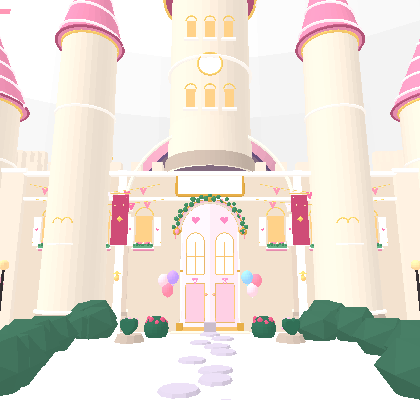
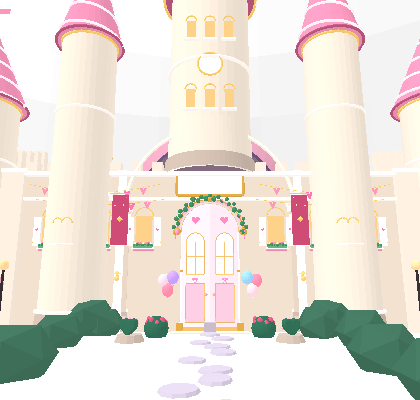
keep the garden's castle identical while the roof closes
The previous commit closed the hole from the inside, but the two halves of the
keep did not add up to the drum that was there before: the lower half kept the
drum's taper and the upper half was a straight cylinder, so the top of the keep
was 2 cm narrow all the way round -- enough to move a ray by up to 10 m where
the silhouette crosses a tower behind it.

Both pieces now take the radius the single drum had at their own height, from
one `taper(y)`, so together they are the same solid to the millimetre. Checked
mesh by mesh against the old code: comparing every mesh in the scene above
4.5 m, the only difference is the one cylinder that is now two.

Also holds the fix down with tests/roof-hole.test.js -- the cap over the vault's
mouth, the keep's lower half being the garden-facing half only, the taper, the
UV datum, and the keep not having moved. 181 tests.

docs/roof-hole-garden-*.png and docs/roof-hole-hall-*.png are the two views.

diff --git a/tests/roof-hole.test.js b/tests/roof-hole.test.js
@@ -1,0 +1,62 @@
+import test from 'node:test';
+import assert from 'node:assert/strict';
+
+// The hall had a hole in its ceiling, right above the front door.
+//
+// The front wall stops at 8 m, where `LAYOUT.hallSpring` is 6.15 and the barrel vault over it carries on to
+// 10.5 m. The keep, meanwhile, stood at x 0, z -0.6 -- straight over the front of the hall -- with its base
+// at 8 m. So there was a two-metre gap the shape of the cap of a circle, and through it you saw the outside
+// of the castle: the keep's ashlar courses and its plinth band, sitting on the ceiling, with the flank
+// towers either side. It is the first thing anyone sees when they walk in and look up.
+//
+// Three separate pieces have to stay right for it to stay closed, and each one was wrong at some point
+// during the fix, so each one is held here:
+//
+//   1. the vault's front mouth is capped (world.js),
+//   2. the only thing built of the keep below the roof line is the half that faces the garden (castle.js),
+//   3. that half keeps the drum's taper, so the castle looks the same from the garden as it always did.
+//
+// The geometry cannot be raycast here -- building the world needs a canvas -- so this reads the two files as
+// text, like tests/hall-walls.test.js and tests/door-piping.test.js do.
+
+const sources = await Promise.all([
+  import('node:fs/promises').then((fs) => fs.readFile(new URL('../src/world.js', import.meta.url), 'utf8')),
+  import('node:fs/promises').then((fs) => fs.readFile(new URL('../src/castle.js', import.meta.url), 'utf8')),
+]);
+const [world, castle] = sources;
+
+test('the vault mouth over the front door is capped', () => {
+  assert.match(world, /const facadeHeight = 8;/, 'the front wall still stops at 8 m');
+  // the cap is built from the vault's own cross-section, from where the vault passes the top of the wall
+  assert.match(world, /const tEdge = Math\.asin\(THREE\.MathUtils\.clamp\(\(top - S\) \/ R, -1, 1\)\)/);
+  assert.match(world, /const cap = new THREE\.Shape\(\);/, 'a cap shape is built');
+  assert.match(world, /new THREE\.Mesh\(capGeo, new THREE\.MeshStandardMaterial\(\{/, 'and a mesh fills it');
+  // it must not change how the castle looks from the garden: interior only, no second skin outside
+  assert.doesNotMatch(world, /const outer = new THREE\.Mesh\(capGeo/, 'no exterior skin on the cap');
+  assert.doesNotMatch(world, /tympanum/, 'no gable was added to the outside of the front wall');
+});
+
+test('the keep is only built where the hall cannot see it', () => {
+  // the roof ridge, from spring + the roof barrel's radius + the ridge cap
+  assert.match(castle, /const keepHidden = 10\.75;/, 'the roof line is named');
+  // below the roof line, half a cylinder, centred on +z -- the garden side -- and open
+  assert.match(
+    castle,
+    /new THREE\.CylinderGeometry\(taper\(keepHidden\), KEEP\.r \* 1\.05, lowerH, 32, 1, true, -Math\.PI \/ 2, Math\.PI\)/,
+    'the lower drum is the garden-facing half only',
+  );
+  // above it, a full drum: the hall sees the spire over the roof, which is what the garden sees too
+  assert.match(castle, /new THREE\.CylinderGeometry\(KEEP\.r, taper\(upperBase\), upperH, 32\)/, 'the upper drum is whole');
+});
+
+test('splitting the keep does not change its silhouette from the garden', () => {
+  // the single drum was r * 1.05 at the foot tapering to r at the top; each piece takes the radius the one
+  // drum had at its own height, so the two together are the same solid
+  assert.match(castle, /const taper = \(y\) => KEEP\.r \* \(1\.05 - \(0\.05 \* \(y - KEEP\.base\)\) \/ keepH\);/, 'the taper is kept');
+  assert.match(castle, /taper\(upperBase\)/, 'the upper piece uses it at its foot');
+  assert.match(castle, /taper\(keepHidden\)/, 'the lower piece uses it at its top');
+  // and the map is still laid out from the base of the drum, so the courses run across the join
+  assert.match(castle, /const shift = \(upperBase - KEEP\.base\) \/ TILE;/, 'the upper drum keeps the drum’s UV datum');
+  // the keep has not been moved: the castle is the castle it always was
+  assert.match(castle, /export const KEEP = \{ x: 0, z: -0\.6, r: 2\.3, base: 8, top: 19 \};/, 'same keep, same place');
+});

diff --git a/src/castle.js b/src/castle.js
@@ -270,9 +270,13 @@ export function buildCastle(scene, track) {
   const keepHidden = 10.75; // the roof ridge; above this the keep is clear of the building
   const upperH = Math.max(keepH - (keepHidden - KEEP.base), 0.1);
   const upperBase = KEEP.top - upperH;
+  // The drum was one battered cylinder, r * 1.05 at the foot to r at the top. Splitting it must not flatten
+  // that taper: the two pieces take the radius the single drum had at their own heights, so the silhouette
+  // from the garden is the silhouette it always was, to the millimetre.
+  const taper = (y) => KEEP.r * (1.05 - (0.05 * (y - KEEP.base)) / keepH);
   {
     // The two pieces share one map, laid out from the base of the drum, so the courses run across the join
-    const geo = drum(new THREE.CylinderGeometry(KEEP.r, KEEP.r, upperH, 32), KEEP.r, upperH);
+    const geo = drum(new THREE.CylinderGeometry(KEEP.r, taper(upperBase), upperH, 32), KEEP.r, upperH);
     const uv = geo.attributes.uv;
     const shift = (upperBase - KEEP.base) / TILE;
     for (let i = 0; i < uv.count; i += 1) uv.setY(i, uv.getY(i) + shift);
@@ -282,7 +286,7 @@ export function buildCastle(scene, track) {
   {
     const lowerH = keepHidden - KEEP.base;
     // theta 0 is +z, which is the garden, so the half we keep is centred there: -90 deg to +90 deg
-    const geo = drum(new THREE.CylinderGeometry(KEEP.r, KEEP.r * 1.05, lowerH, 32, 1, true, -Math.PI / 2, Math.PI), KEEP.r, lowerH);
+    const geo = drum(new THREE.CylinderGeometry(taper(keepHidden), KEEP.r * 1.05, lowerH, 32, 1, true, -Math.PI / 2, Math.PI), KEEP.r, lowerH);
     const lower = add(geo, stone, KEEP.x, KEEP.base + lowerH / 2, KEEP.z);
     lower.name = 'keep-lower';
     add(drum(new THREE.CylinderGeometry(KEEP.r * 1.08, KEEP.r * 1.12, 0.8, 32, 1, true, -Math.PI / 2, Math.PI), KEEP.r, 0.8), stoneDark, KEEP.x, KEEP.base + 0.4, KEEP.z);
